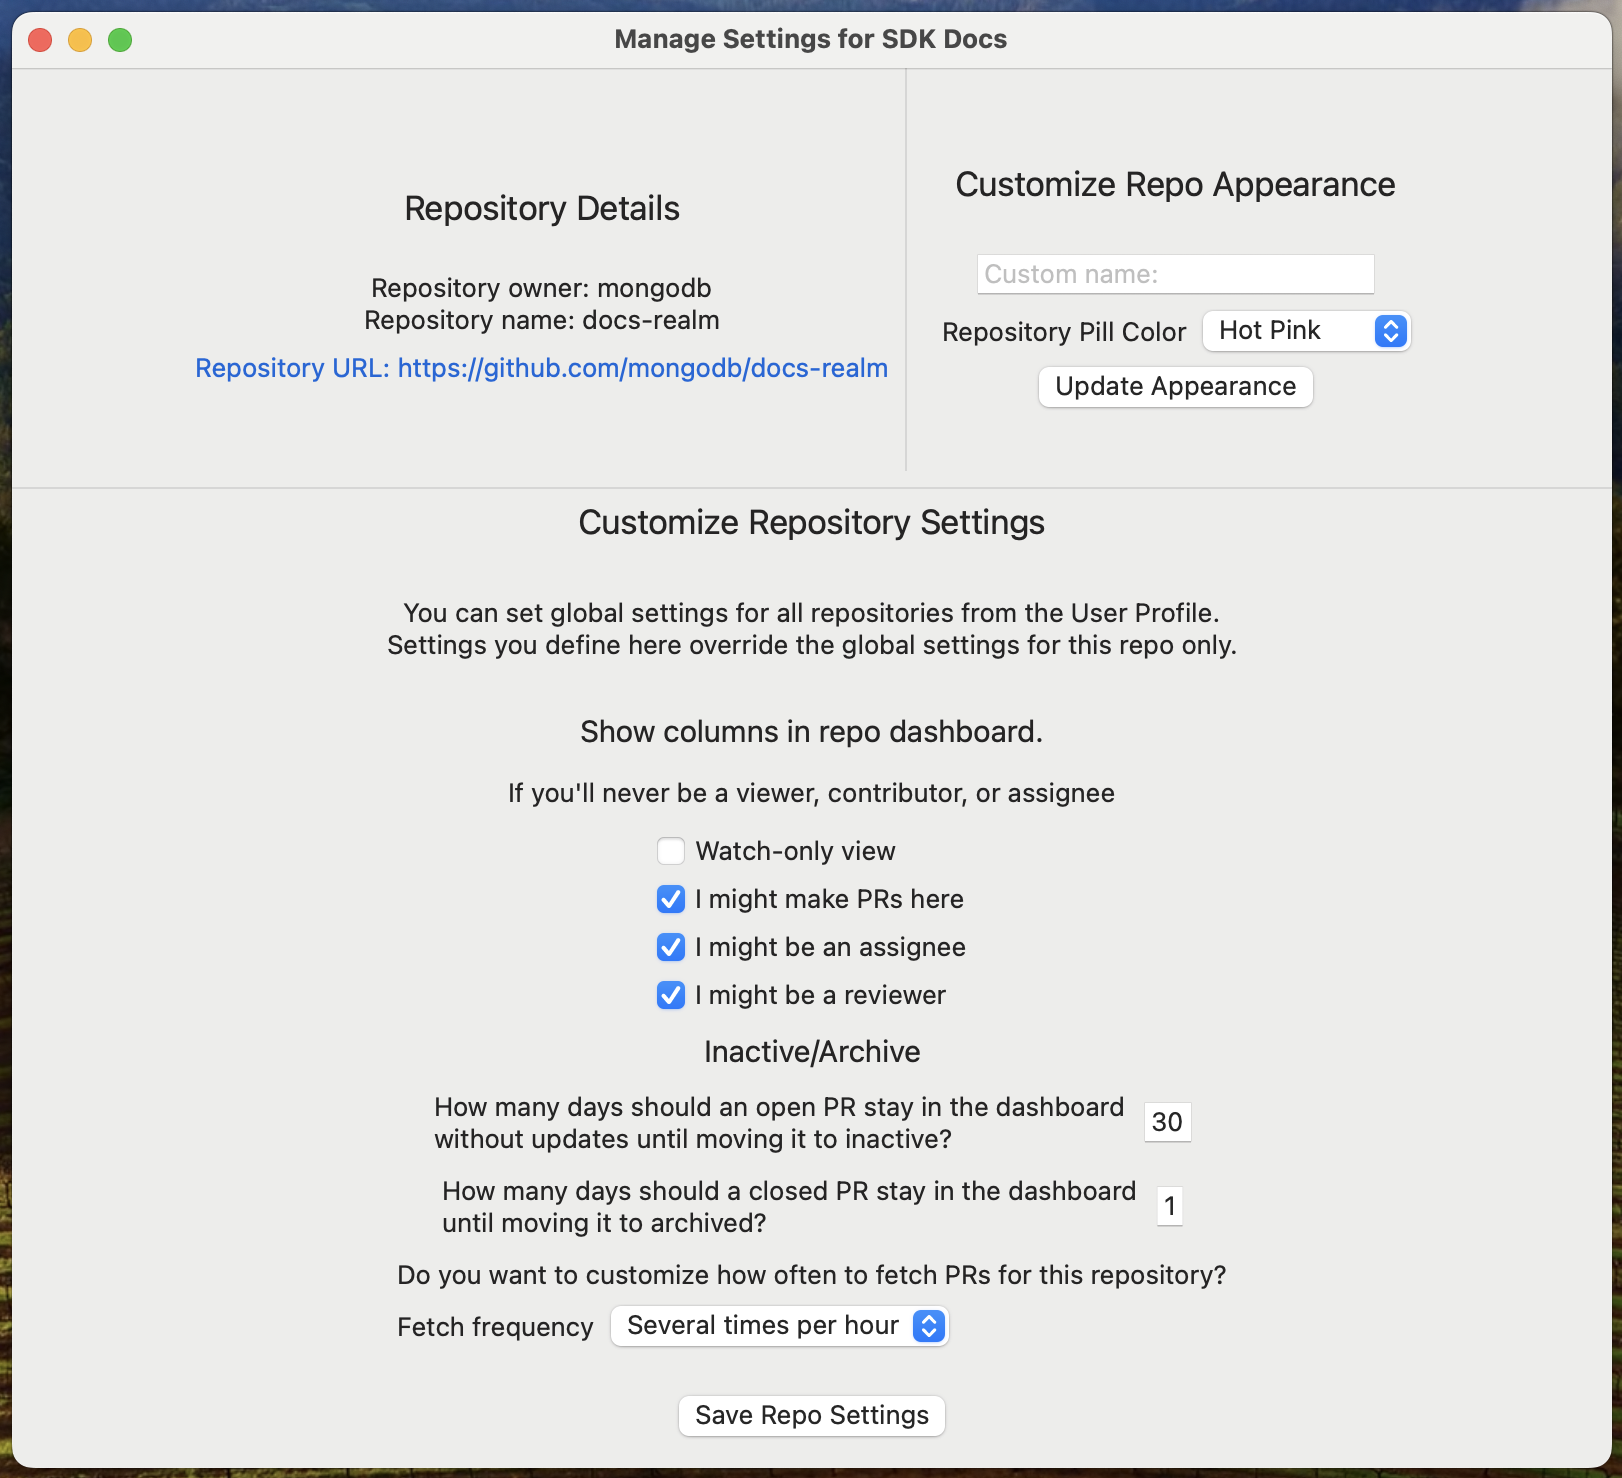
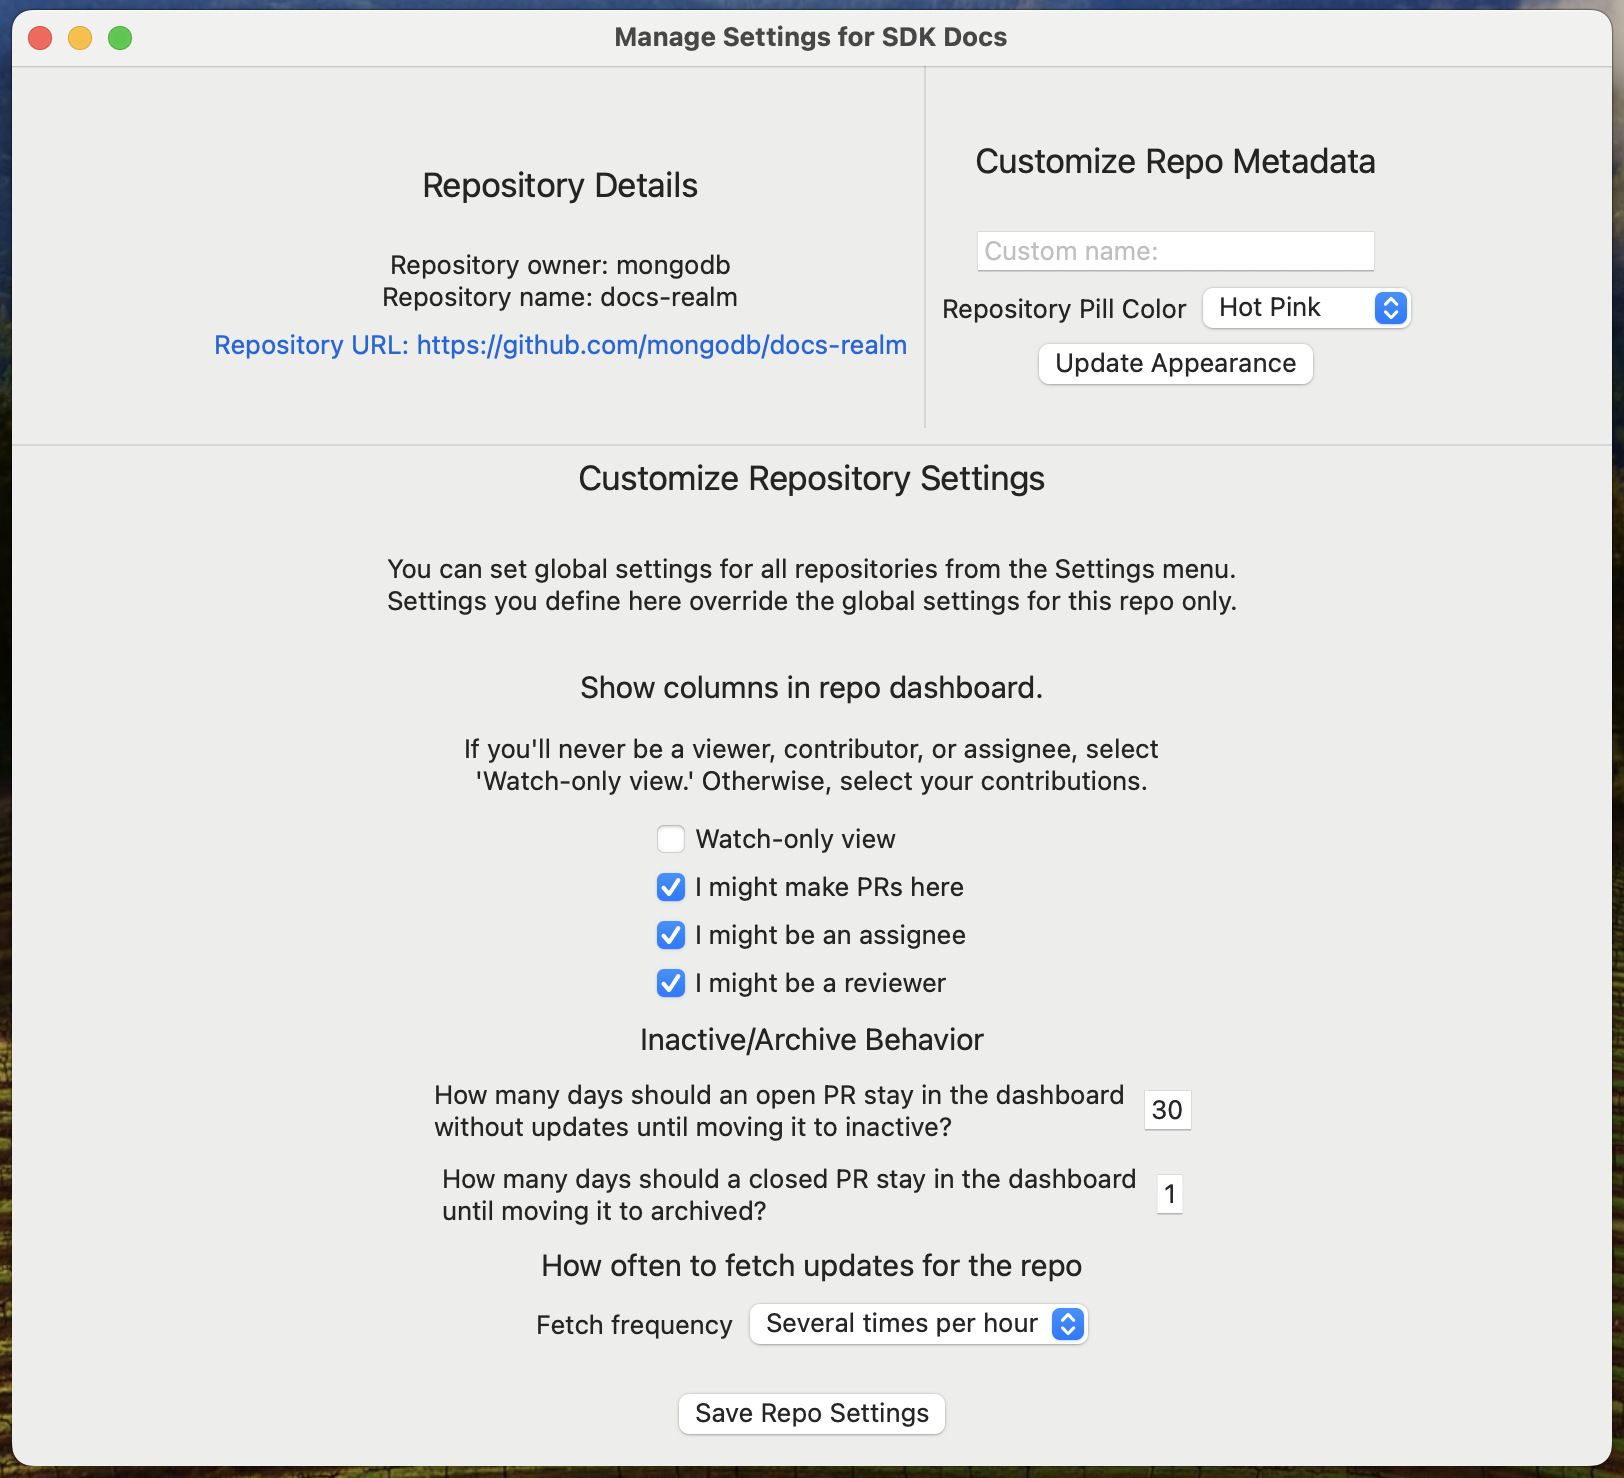
Update screenshots and provide guidance around why customize settings

diff --git a/content/en/docs/repositories/manage-repository.md b/content/en/docs/repositories/manage-repository.md
@@ -6,6 +6,18 @@ description: >
   Update repository metadata in PR Focus, or stop watching the repository.
 ---
 
+You can customize settings in PR Focus on a per-repository basis, including:
+
+- Give the repo a human-friendly name
+- Customize the label color
+- Customize which columns to display for the repository's dashboard view (show or hide "My PRs", "Assigned", "Reviewing" columns)
+- Specify how long to wait before moving PRs out of the repository view to the "Inactive" or "Archived" dashboards
+- Specify how often to fetch updates for the repo from GitHub
+
+Any customizations you make on a per-repository basis override the global settings you can configure across all repositories in the app. For information about customizing global settings, instead, refer to [Settings]({{< ref "docs/settings" >}}).
+
+## How to Customize Repository Settings
+
 To update the settings for repositories you're watching, or to delete repositories from PR Focus, select the **Manage Repositories** option in the **Repositories** menu.
 
 ![Screenshot showing the Manage Repositories menu option](/images/manage-repositories-menu-option.png)
@@ -22,6 +34,10 @@ When you select this option, you open the **Manage Repositories** window. This w
 When you press the **Update Settings** option, you open the repository settings window for that repository.
 
 ![Screenshot showing the "Repository Details" view with metadata and customization options](/images/repo-details-view.png)
+
+When you press the **Save Repo Settings** button, PR Focus saves all of the values in the "Customize Repository Settings" section of the view as custom repository settings. These settings apply only to this repository, and override the global default settings for this repo.
+
+If you would instead like to customize the global default settings, refer to [Settings]({{< ref "docs/settings/_index.md" >}}).
 
 ## Repository Metadata
 
@@ -46,24 +62,28 @@ You can customize the repository appearance independent of customizing repositor
 
 ## Customize Repository Settings
 
-In this view, you can also customize the settings for a repository. Settings you customize here override the **Global Default** settings for these options. The settings you can customize include:
+In this view, you can also customize the settings for a repository. Settings you customize here override the **Global Default** settings for these options. 
 
-- Which columns to show in the repo dashboard.
-  - If you'll never be a reviewer, assignee, or contributor to the repository, you can select the "Watch-only view" setting. This removes the **My PRs**, **Reviewing PRs**, and **Assigned PRs** columns when viewing that repository. When you toggle this setting, the rest of the options disappear.
-  - If you may be a reviewer, assignee, or contributor to the repository, you can check which columns apply to your role in that repository. PR Focus shows the corresponding columns in the **Repository Dashboard**, and in the **All Repositories** dashboard.
-- How many days to wait before setting a PR to "inactive." When a PR becomes inactive, it moves out of the repository dashboards to the **Inactive PRs** dashboard. This helps avoid cluttering your repository dashboards with pull requests that may be blocked.
-- How many days to wait after a PR has been closed before setting it to "archived." When a PR has been closed or merged for the designated number of days, it moves to the **Archived PRs** dashboard.
-- How often to fetch PRs for the repository. For some repositories, you may only need to see updates daily, and more frequent updates would be a distraction. For other repositories, you may want to see updates whenever you look at PR Focus, so you may want it to update as often as several times per hour. The default fetch interval is one hour.
+### Show Columns in Repo Dashboard
 
-When you press the **Save Repo Settings** button, PR Focus saves all of the values in the "Customize Repository Settings" section of the view as custom repository settings. These settings apply only to this repository, and override the global default settings for this repo.
+Which columns to show in the repo dashboard.
 
-If you would instead like to customize the global default settings, refer to [Settings]({{< ref "docs/settings/_index.md" >}}).
+- If you'll never be a reviewer, assignee, or contributor to the repository, you can select the "Watch-only view" setting. This removes the **My PRs**, **Reviewing PRs**, and **Assigned PRs** columns when viewing that repository. When you toggle this setting, the rest of the options disappear.
+- If you may be a reviewer, assignee, or contributor to the repository, you can check which columns apply to your role in that repository. PR Focus shows the corresponding columns in the **Repository Dashboard**, and in the **All Pull Requests** dashboard.
 
 {{% alert title="Important" color="secondary" %}}
 If you become a reviewer or assignee in a repository, PR Focus shows the relevant column for the repository dashboard *and* the **All Pull Requests** dashboard. This overrides any global or repository settings. This feature is to ensure you don't miss a PR where you have been requested as an assignee or reviewer.
 {{% /alert %}}
 
+### Inactive/Archive Behavior
+
+PR Focus automatically moves PRs that are inactive out of your main **All Pull Requests** and repository dashboard to an **Inactive PRs** dashboard. You can customize how long to wait before setting a PR as inactive for a given repository. This helps avoid cluttering your active dashboards with pull requests that may be blocked.
+
+PR Focus automatically moves closed PRs out of your main **All Pull Requests** and repository dashboard to an **Archived PRs** dashboard. You can customize how long to wait before setting a PR as archived for a given repository. If your work is done immediately when the pull request is closed, you might want to move it right away to the archived dashboard. If your work *starts* when a pull request is closed, as when you're a downstream team writing documentation for a new feature, you may want a closed PR to remain visible in your dashboard for a longer period of time.
+
 ### GitHub Fetch Frequency
+
+PR Focus automatically fetches updates from GitHub in the background while the app is open. You can customize how often to fetch updates for a given repository. For some repositories, you may only need to see updates daily, and more frequent updates would be a distraction. For other repositories, you may want to see updates whenever you look at PR Focus, so you may want it to update as often as several times per hour. The default fetch interval is one hour.
 
 The GitHub API rate-limits API access tokens to 5,000 calls per hour. 
 
